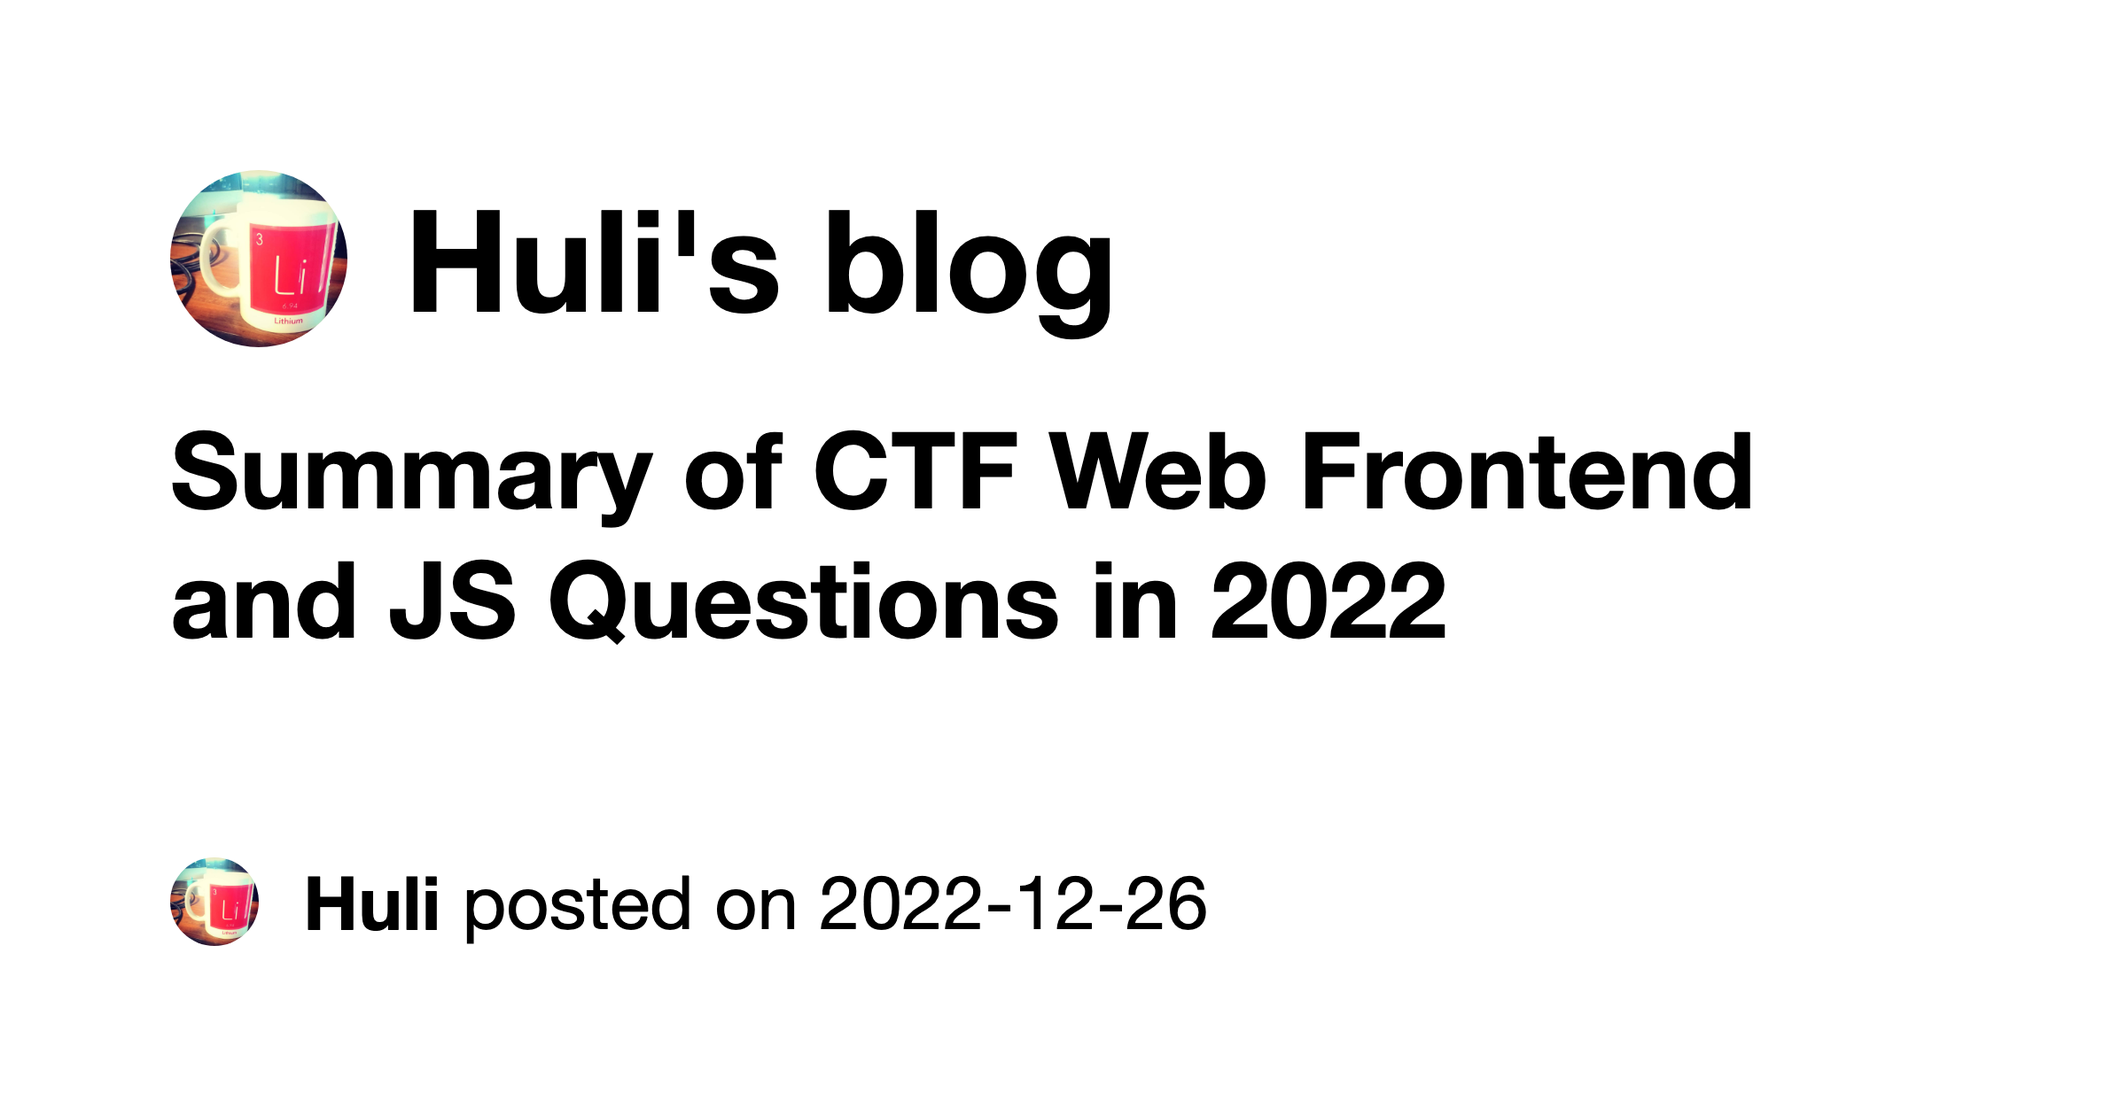
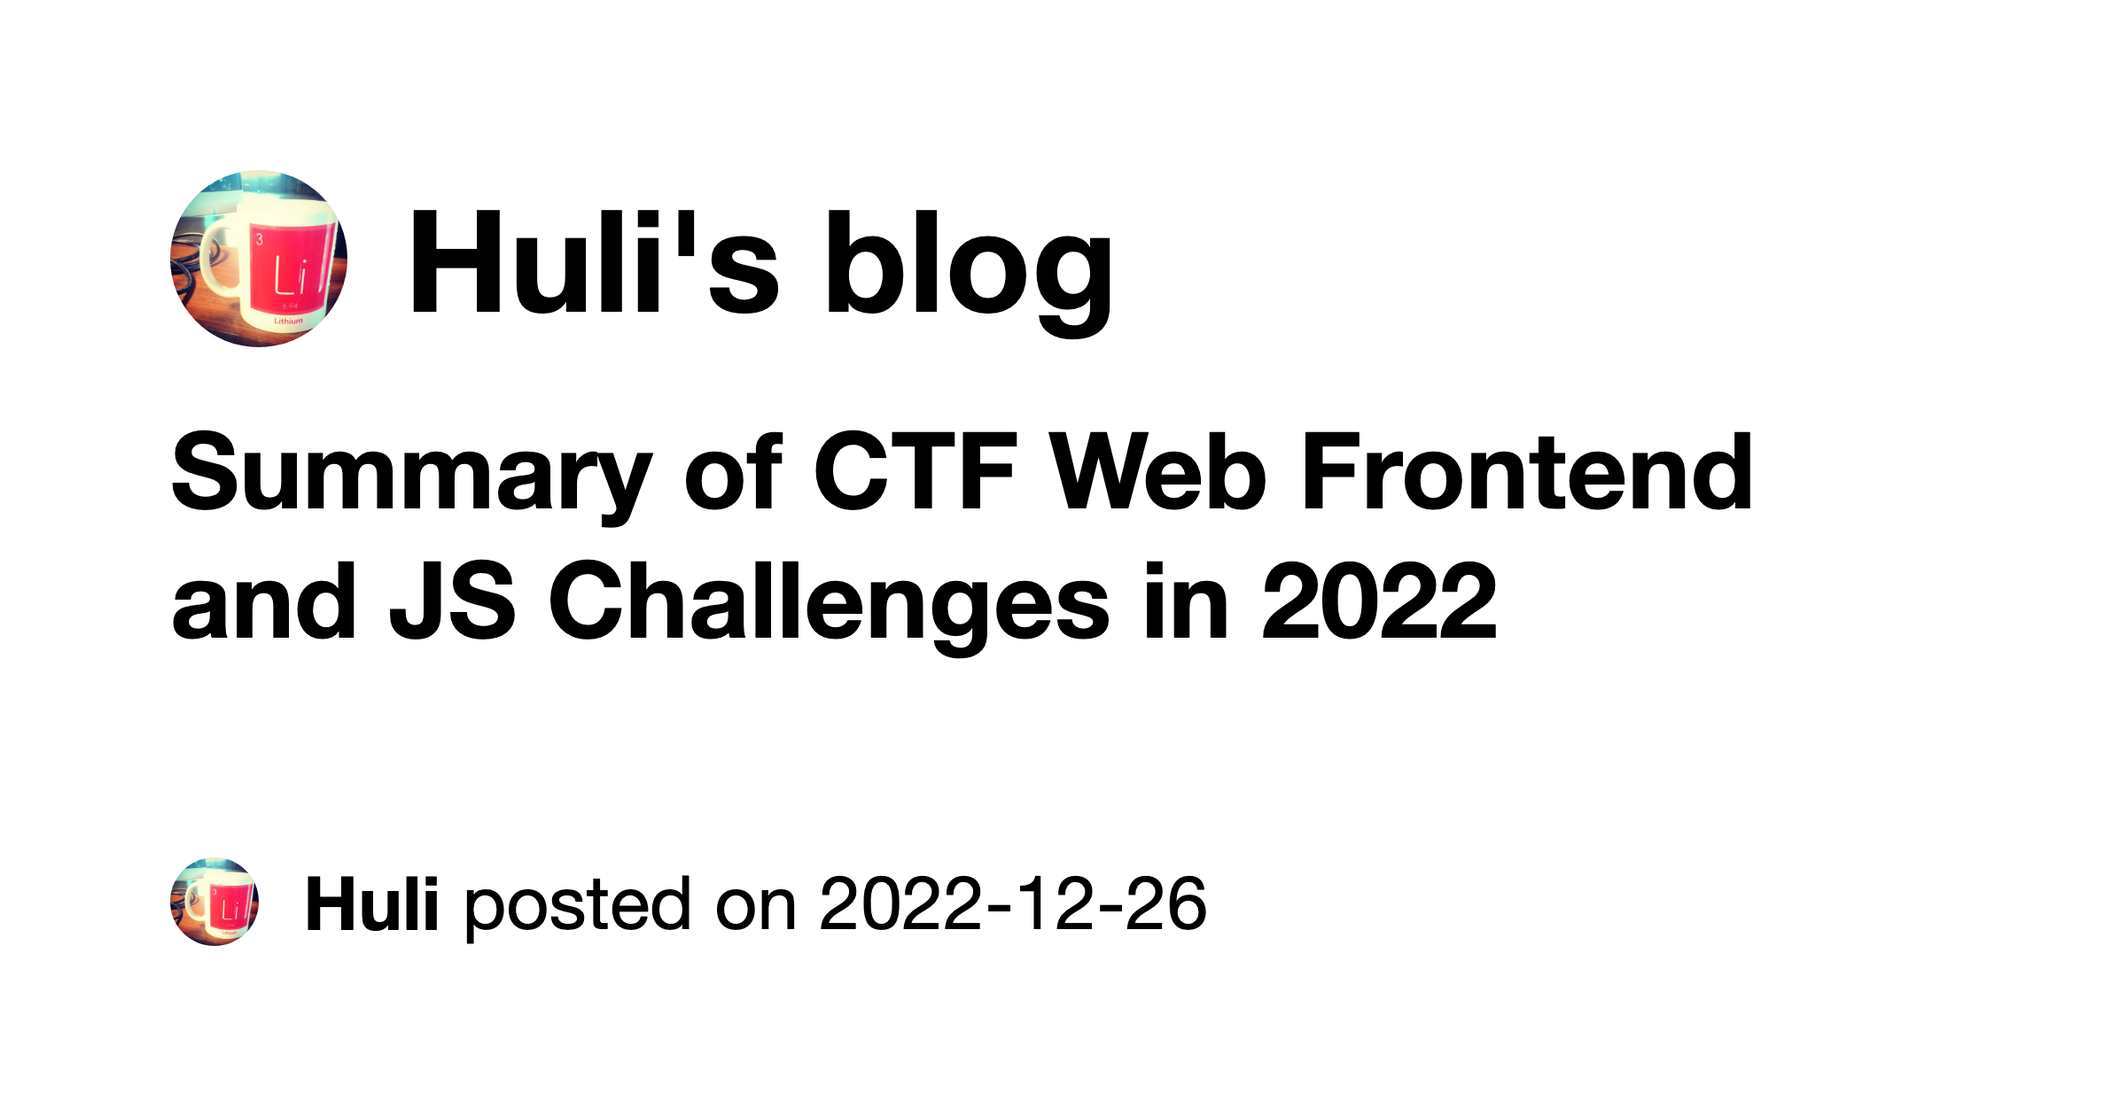
update 2022 ctf en article

Changed region(s): [[0.2812, 0.4952, 0.7188, 0.5881]]

diff --git a/source/_posts/en/ctf-2022-web-js-summary.md b/source/_posts/en/ctf-2022-web-js-summary.md
@@ -1,5 +1,5 @@
 ---
-title: Summary of CTF Web Frontend and JS Questions in 2022
+title: Summary of CTF Web Frontend and JS Challenges in 2022
 catalog: true
 date: 2022-12-26 20:10:44
 tags: [Security]
@@ -7,9 +7,9 @@ categories: [Security]
 photos: /img/ctf-2022-web-js-summary/cover-en.png
 ---
 
-This year, I seriously followed Water Paddler to play CTF for a whole year. I saw someone organizing a [CTF: Best Web Challenges 2022](https://blog.arkark.dev/2022/12/17/best-web-challs/) and found that I had played most of the challenges inside. So I thought it would be better for me to write a summary, organizing the challenges that I personally felt I had learned something new from.
+This year, I seriously followed Water Paddler to play CTF for a whole year. I saw someone wrote a [CTF: Best Web Challenges 2022](https://blog.arkark.dev/2022/12/17/best-web-challs/) and found that I had played most of the challenges inside. So I thought it would be better for me to write a summary, documenting the challenges that I personally felt I had learned something new from.
 
-Because of my personal interest, the challenges that I will specifically remember are related to frontend and JS. Challenges related to backend (PHP, Java, etc.) are not included.
+Because of my personal interest, the challenges that I played were related to frontend and JS. Challenges related to backend (PHP, Java, etc.) are not included.
 
 Also, the techniques or solutions recorded in this article do not represent the first appearance in CTF. They are just the first time I saw them or thought they were worth recording, so I wrote them down.
 
@@ -41,11 +41,11 @@ The last line has a DOM-based XSS, but the pwd you want to steal is inside the b
 
 The key is the seemingly inconspicuous RegExp, which has a magical property called `RegExp.input`, which will remember the last thing tested. Therefore, you can use this to get the pwd.
 
-Detailed writeup: https://blog.huli.tw/2022/02/08/what-i-learned-from-dicectf-2022/#webno-cookies5-solves
+Detailed writeup: https://blog.huli.tw/2022/02/08/en/what-i-learned-from-dicectf-2022/#webx2fno-cookies5-solves
 
 ### PlaidCTF 2022 - YACA
 
-The core concept of the challenge is similar to this (but I remember it was an unexpected solution):
+The core concept of the challenge is similar to this (but I remember it was an unintended solution):
 
 ``` js
 var tmpl = '<input type="submit" value="{{value}}">'
@@ -55,7 +55,7 @@ tmpl = tmpl.replace('{{value}}', value)
 document.body.innerHTML = tmpl
 ```
 
-`>"` is all replaced, and it seems impossible to escape the attribute. But the key is that the parameter of tmpl replace can be controlled. At this time, you can use [special replacement pattern](https://developer.mozilla.org/en-US/docs/Web/JavaScript/Reference/Global_Objects/String/replace#specifying_a_string_as_the_replacement) to retrieve your tag:
+`>"` is all replaced, and it seems impossible to escape the attribute. But the key is that the parameter of tmpl replace can be controlled. At this time, you can use [special replacement pattern](https://developer.mozilla.org/en-US/docs/Web/JavaScript/Reference/Global_Objects/String/replace#specifying_a_string_as_the_replacement) to get the tag:
 
 ``` js
 var tmpl = '<input type="submit" value="{{value}}">'
@@ -66,23 +66,23 @@ console.log(tmpl)
 // <input type="submit" value=""><style onload=alert(1) ">
 ```
 
-Complete writeup: https://blog.huli.tw/2022/04/14/javascript-string-regexp-magic/
+Full writeup: https://blog.huli.tw/2022/04/14/en/javascript-string-regexp-magic/
 
 ### ångstromCTF 2022 - CaaSio PSE
 
 In short, use `with()` to bypass the restriction that `.` cannot be used.
 
-Complete writeup: https://blog.huli.tw/2022/05/05/angstrom-ctf-2022-writeup/#misccaasio-pse
+Complete writeup: https://blog.huli.tw/2022/05/05/en/angstrom-ctf-2022-writeup/#miscx2fcaasio-pse
 
 ### GoogleCTF 2022 - HORKOS
 
-I call this challenge "JS deserialization". In short, there are also some magic methods in JS that will be executed secretly.
+I call this challenge "JS deserialization". In short, there are also some magic methods in JS that will be executed automatically.
 
-For example, when you return something in an async function, if this thing is a Promise, it will be resolved before returning, so `then` will be called secretly.
+For example, when you return something in an async function, if this thing is a Promise, it will be resolved before returning, so `then` will be called automatically.
 
 Similarly, some implicit type conversions will also call `toString` or `valueOf`, and `toJSON` will be called when converted to JSON.
 
-Complete writeup: https://blog.huli.tw/2022/07/09/google-ctf-2022-writeup/#horkos-10-solves
+Complete writeup: https://blog.huli.tw/2022/07/11/en/googlectf-2022-horkos-writeup/
 
 ### corCTF 2022 - sbxcalc
 
@@ -96,7 +96,7 @@ How to get the original object protected by Proxy?
 
 The answer is `Object.getOwnPropertyDescriptor(p, 'flag')`
 
-Writeup: https://blog.huli.tw/2022/12/08/ctf-js-notes/#corctf-2022-sbxcalc
+Writeup: https://blog.huli.tw/2022/12/08/en/ctf-js-notes/#corctf-2022-sbxcalc
 
 ## Node.js related
 
@@ -110,7 +110,7 @@ delete global.global;
 process = undefined;
 {
   let Array=undefined;let __dirname=undefined;let Int8Array=undefined;
-  // ... 省略一大堆 undefined
+  // ... a lot of similar statements to make things undefined
   
   console.log(eval(input));
 }
@@ -124,7 +124,7 @@ There are three solutions:
 2. Using `arguments.callee.caller.arguments` can get the overwritten arguments of the upper layer (a layer automatically wrapped by Node.js).
 3. Using try-catch can get the instance of Error.
 
-Detailed writeup: https://blog.huli.tw/2022/02/08/what-i-learned-from-dicectf-2022/#miscundefined55-solves
+Detailed writeup: https://blog.huli.tw/2022/02/08/en/what-i-learned-from-dicectf-2022/#miscx2fundefined55-solves
 
 ### corCTF 2022 - simplewaf
 
@@ -153,7 +153,7 @@ console.log(fs.readFileSync({
   hostname: '',
   pathname: '/etc/passw%64'
 }).toString())
-// 等同於 readFileSync(new URL("file:///etc/passw%64"))
+// equals to readFileSync(new URL("file:///etc/passw%64"))
 ```
 
 Author's writeup: https://brycec.me/posts/corctf_2022_challenges#simplewaf
@@ -212,7 +212,7 @@ Object.prototype.env = {
 require('./usage.js')
 ```
 
-Details can be found in the complete writeup: https://blog.huli.tw/2022/12/08/ctf-js-notes#balsn-ctf-2022-2linenodejs
+Details can be found in the complete writeup: https://blog.huli.tw/2022/12/08/en/ctf-js-notes/#balsn-ctf-2022-2linenodejs
 
 ## XSleaks
 
@@ -226,15 +226,15 @@ In Chrome, the number of sockets is limited, generally 255, and headless is 99. 
 
 Since there is only one socket left, the time from reqMeasure sending the request to receiving the response is `the time reqSearch takes + the time reqMeasure takes`. If the time reqMeasure takes is about the same, then we can easily measure the time reqSearch takes.
 
-Detailed writeup: https://blog.huli.tw/2022/02/08/what-i-learned-from-dicectf-2022/#webcarrot1-solves
+Detailed writeup: https://blog.huli.tw/2022/02/08/en/what-i-learned-from-dicectf-2022/#webx2fcarrot1-solves
 
 ### TSJ CTF 2022 - Nim Notes
 
-In this problem, you can achieve CRLF injection, but the position is at the bottom, so you cannot cover CSP and cannot XSS. How to steal the content of the page?
+In this problem, you can achieve CRLF injection, but the position is at the bottom, so you cannot override CSP and XSS. How to steal the content of the page?
 
 Assuming that the content to be stolen is in `<script>`, you can use the header [Content-Security-Policy-Report-Only](https://developer.mozilla.org/en-US/docs/Web/HTTP/Headers/Content-Security-Policy-Report-Only), because when it violates the rules, it will send a JSON to the specified location, which will include the first 40 characters of the script.
 
-Complete writeup: https://blog.huli.tw/2022/03/02/tsj-ctf-2022-nim-notes/
+Complete writeup: https://blog.huli.tw/2022/03/02/en/tsj-ctf-2022-nim-notes/
 
 ### ångstromCTF 2022 - Sustenance
 
@@ -246,7 +246,7 @@ There are two solutions. One is to use fetch to measure whether it is in the cac
 
 The second is to use cookie tossing with other same site domains to construct a cookie bomb. When the search is successful, the payload will be too large (because there are a few more characters in the URL), and there will be no problem when it fails, thus measuring the difference.
 
-Complete writeup: https://blog.huli.tw/2022/05/05/angstrom-ctf-2022-writeup/#websustenance
+Complete writeup: https://blog.huli.tw/2022/05/05/en/angstrom-ctf-2022-writeup/#webx2fsustenance
 
 ### justCTF 2022 - Ninja
 
@@ -254,7 +254,7 @@ A new xsleak that uses `:target` with `:before` to load images.
 
 For details, please refer to: [New technique of stealing data using CSS and Scroll-to-Text Fragment feature.](https://www.secforce.com/blog/new-technique-of-stealing-data-using-css-and-scroll-to-text-fragment-feature/)
 
-Complete writeup: https://blog.huli.tw/2022/06/14/justctf-2022-writeup#ninja1-solves
+Complete writeup: https://blog.huli.tw/2022/06/14/en/justctf-2022-writeup/#ninja1-solves
 
 ### SekaiCTF 2022 - safelist
 
@@ -262,7 +262,7 @@ Use lazy-loading images to send requests to the server to slow down the server s
 
 You can also use the connection pool or other elements mentioned earlier to solve it.
 
-Writeup: https://blog.huli.tw/2022/10/08/sekaictf2022-safelist-and-connection/
+Writeup: https://blog.huli.tw/2022/10/08/en/sekaictf2022-safelist-and-connection/
 
 ## Front-end DOM/BOM related knowledge
 
@@ -276,7 +276,7 @@ But the final solution is:
 2. Use `window.find` to find the content
 3. Use `document.execCommand` to insert HTML and use svg to get the node
 
-Detailed writeup: https://blog.huli.tw/2022/02/08/what-i-learned-from-dicectf-2022/#webshadow0-solves
+Detailed writeup: https://blog.huli.tw/2022/02/08/en/what-i-learned-from-dicectf-2022/#webx2fshadow0-solves
 
 ### LINE CTF 2022 - Haribote Secure Note
 
@@ -296,7 +296,7 @@ There are three solutions:
 
 Here is a great article: [Eliminating XSS from WebUI with Trusted Types](https://microsoftedge.github.io/edgevr/posts/eliminating-xss-with-trusted-types)
 
-Complete writeup: https://blog.huli.tw/2022/03/27/linectf-2022-writeup/#haribote-secure-note7-solves
+Complete writeup: https://blog.huli.tw/2022/03/27/en/linectf-2022-writeup/#haribote-secure-note7-solves
 
 ### m0leCon CTF 2022 - ptMD
 
@@ -309,7 +309,7 @@ Leak URL using `meta` combination:
 
 In a strict CSP state, meta can be used as a breakthrough technique. These meta tags, like the ones above, work even if they are not placed inside the head tag, and even after they are removed.
 
-Full writeup: https://blog.huli.tw/2022/05/21/m0lecon-ctf-2022-writeup#ptmd
+Full writeup: https://blog.huli.tw/2022/05/21/en/m0lecon-ctf-2022-writeup/
 
 ### corCTF 2022 - modernblog
 
@@ -333,7 +333,7 @@ a[href^="/post/1"] {
 
 And since we are currently on the `/posts/:id` page, we cannot get the content of the `/home` page, so we cannot do this.
 
-The key point of this question is a very interesting application of DOM clobbering. Nowadays, React apps basically use [react-router](https://reactrouter.com/en/main) to do routing. This lib will go to `document.defaultView.history` to see what the URL is and decide which page to render.
+The key point of this question is a very interesting usage of DOM clobbering. Nowadays, React apps basically use [react-router](https://reactrouter.com/en/main) to do routing. This lib will use `document.defaultView.history` to see what the URL is and decide which page to render.
 
 And `document.defaultView` can be affected by DOM clobbering, like this:
 
@@ -379,7 +379,7 @@ It will output 1 first and then 2, and it will take effect without inserting it 
 
 Related discussion: https://twitter.com/terjanq/status/1421093136022048775
 
-Writeup: https://blog.huli.tw/2022/12/08/ctf-js-notes/#hitcon-ctf-2022
+Writeup: https://blog.huli.tw/2022/12/08/en/ctf-js-notes/#hitcon-ctf-2022
 
 ### SekaiCTF 2022 - Obligatory Calc
 
@@ -394,7 +394,7 @@ Two key points:
 
 This question is related to the order in which the browser executes things, as well as site isolation and other things. Through these things, you can construct an iframe-related race condition.
 
-Full writeup: https://blog.huli.tw/2022/07/09/google-ctf-2022-writeup/#postviewer-10-solves
+Full writeup: https://blog.huli.tw/2022/07/09/en/google-ctf-2022-writeup/#postviewer-10-solves
 
 ### UIUCTF 2022 - modernism
 
@@ -419,15 +419,15 @@ The solution is to add a BOM at the beginning, and the browser will read the ent
 
 The solution to this problem basically requires knowledge of how the browser reads.
 
-Full writeup: https://blog.huli.tw/2022/08/01/uiuctf-2022-writeup/
+Full writeup: https://blog.huli.tw/2022/08/01/en/uiuctf-2022-writeup/
 
 ### UIUCTF 2022 - precisionism
 
-An extension of the previous question, only adding `Enjoy your flag!` at the end, so the trick mentioned above cannot be used.
+An extension of the previous challenge, only adding `Enjoy your flag!` at the end, so the trick mentioned above cannot be used.
 
-The expected solution is to make the response into ICO format, put the part to be leaked into the width, and it is possible to get the width of the image cross-originally, so you can take out the data byte by byte.
+The expected solution is to make the response into ICO format, put the part to be leaked into the width, and it is possible to get the width of the image cross-originally, so you can leak the data byte by byte.
 
-Full writeup: https://blog.huli.tw/2022/08/01/uiuctf-2022-writeup#precisionism3-solves
+Full writeup: https://blog.huli.tw/2022/08/01/en/uiuctf-2022-writeup/#precisionism3-solves
 
 ### SECCON CTF 2022 Quals - spanote
 
@@ -450,17 +450,17 @@ Although it is a GET, it will check the custom header, so theoretically it canno
 
 But using bfcache, it can be solved like this:
 
-1. Open `/api/notes/id` with a browser, and an error screen will appear
+1. Open `/api/notes/id` in a new window, and an error screen will appear
 2. Go to the homepage with the same tab. At this time, the homepage will use fetch to fetch `/api/notes/id` with a custom header, and the browser will store the result in the disk cache
 3. Go back one page, and the screen will display the cached result
 
-You can directly browse the cached response with the browser, bypassing the custom header restriction.
+You can directly browse the cached response in the browser, bypassing the custom header restriction.
 
-Full writeup: https://blog.huli.tw/2022/12/08/ctf-js-notes/#seccon-ctf-2022-quals-spanote
+Full writeup: https://blog.huli.tw/2022/12/08/en/ctf-js-notes/#seccon-ctf-2022-quals-spanote
 
-## Special feature: Introduction of characters
+## Bonus: Authors of Great Web Challenges
 
-There were already several people who left a deep impression on me, so I thought I would organize these people since I have already organized the questions.
+It takes a lot of time and effort to make a good CTF challenge, so I thought I would wrote a bit about these authors since I have already wrote about the challenges.
 
 The first is [Ankur Sundara](https://twitter.com/ankursundara), a member of the dicegang team. He created the UIUCTF questions mentioned above, and he also created a question related to content type before. I feel that he must have read the Chromium source code related parts before producing those questions.
 
@@ -470,18 +470,18 @@ The second is [terjanq](https://twitter.com/terjanq), who works at Google. He cr
 
 He occasionally plays CTF with the justCatTheFish team, and if there are only one or two teams that solve some frontend Web questions, there is a high probability that justCatTheFish is one of them.
 
-The third is [strellic](https://twitter.com/Strellic_), also from dicegang. He has created a lot of questions and the quality is very good. The writeups are also very detailed. I learned a lot of skills and new ideas from him. He always combines previous skills and develops new techniques. He is really amazing.
+The third is [strellic](https://twitter.com/Strellic_), also from dicegang. He has created a lot of questions and the quality is very good. The writeups are also very detailed. I learned a lot of skills and new ideas from him. He always combines old or known technique and develops a new one.
 
 Of course, there are other impressive people, but I'm too lazy to introduce them one by one XD
 
-For example, the author of the article mentioned at the beginning [@arkark_](https://twitter.com/arkark_), [@zwad3](https://twitter.com/zwad3), who created a question that still amazes me, frequent solver [@parrot409](https://twitter.com/parrot409), and [@maple3142](https://twitter.com/maple3142), who are all very active in CTF.
+For example, the author of the article mentioned at the beginning [@arkark_](https://twitter.com/arkark_), [@zwad3](https://twitter.com/zwad3), who created a challenge that still amazes me, frequent solver [@parrot409](https://twitter.com/parrot409), and [@maple3142](https://twitter.com/maple3142), who are all very active in CTF.
 
 ## Summary
 
-After organizing, I found that I have attempted many questions (although I couldn't solve many of them), and some of the questions, although the concepts are not difficult, are quite troublesome to implement.
+After writing, I found that I have attempted many challenges (although I couldn't solve many of them), and some of the challenges, although the concepts are not difficult, are quite troublesome to implement.
 
-In addition, it can be seen that many questions require looking at the source code of the lib to solve. Personally, I like this kind of question, which gives a real-world feeling. It's something you use every day, but you don't know how it works behind the scenes. CTF forces you to understand it. Although it has nothing to do with the web, there were also two or three questions related to Git this year, which required understanding the operation behind Git to solve.
+In addition, it can be seen that many challenges require looking at the source code of the lib to solve. Personally, I like this kind of question, which gives a real-world feeling. It's something you use every day, but you don't know how it works behind the scenes. CTF forces you to understand it. Although it has nothing to do with the web, there were also two or three challenges related to Git this year, which required understanding how Git works to solve.
 
 I learned a lot of techniques that I had no idea about before this year. I feel that my understanding of JS and browsers has improved a bit, but I can foresee that I will still be challenged next year, and there will be more things that I don't know.
 
-Finally, I would like to thank each question setter. It is because of these question setters who share their research through questions that others can learn these novel techniques. I personally think that it is harder to set a good question than to solve it. If you are solving a question, you know that there is an answer somewhere, and you just need to find it. To set a good question, you need to discover something new by yourself, which is really difficult. Once again, I salute every question setter.
+Finally, I would like to thank each challenge author. It is because of these challenge authors who share their research through challenges that others can learn these novel techniques. I personally think that it is harder to make a good challenge than to solve it. If you are solving a challenge, you know that there is an solution somewhere, and you just need to find it. To make a good challenge, you need to discover something new by yourself, which is really difficult. Once again, kudos to every challenge maker.

diff --git a/source/_posts/en/m0lecon-ctf-2022-writeup.md b/source/_posts/en/m0lecon-ctf-2022-writeup.md
@@ -287,7 +287,7 @@ Finally, I solved it. First blood.
 
 ## ptMD
 
-This was the hardest challenge, but it was solved by everyone.
+This was the hardest challenge, only 1 solve.
 
 First, here's the author's writeup: https://github.com/xatophi/m0leconteaser2022-ptMD/blob/main/writeup.md
 
